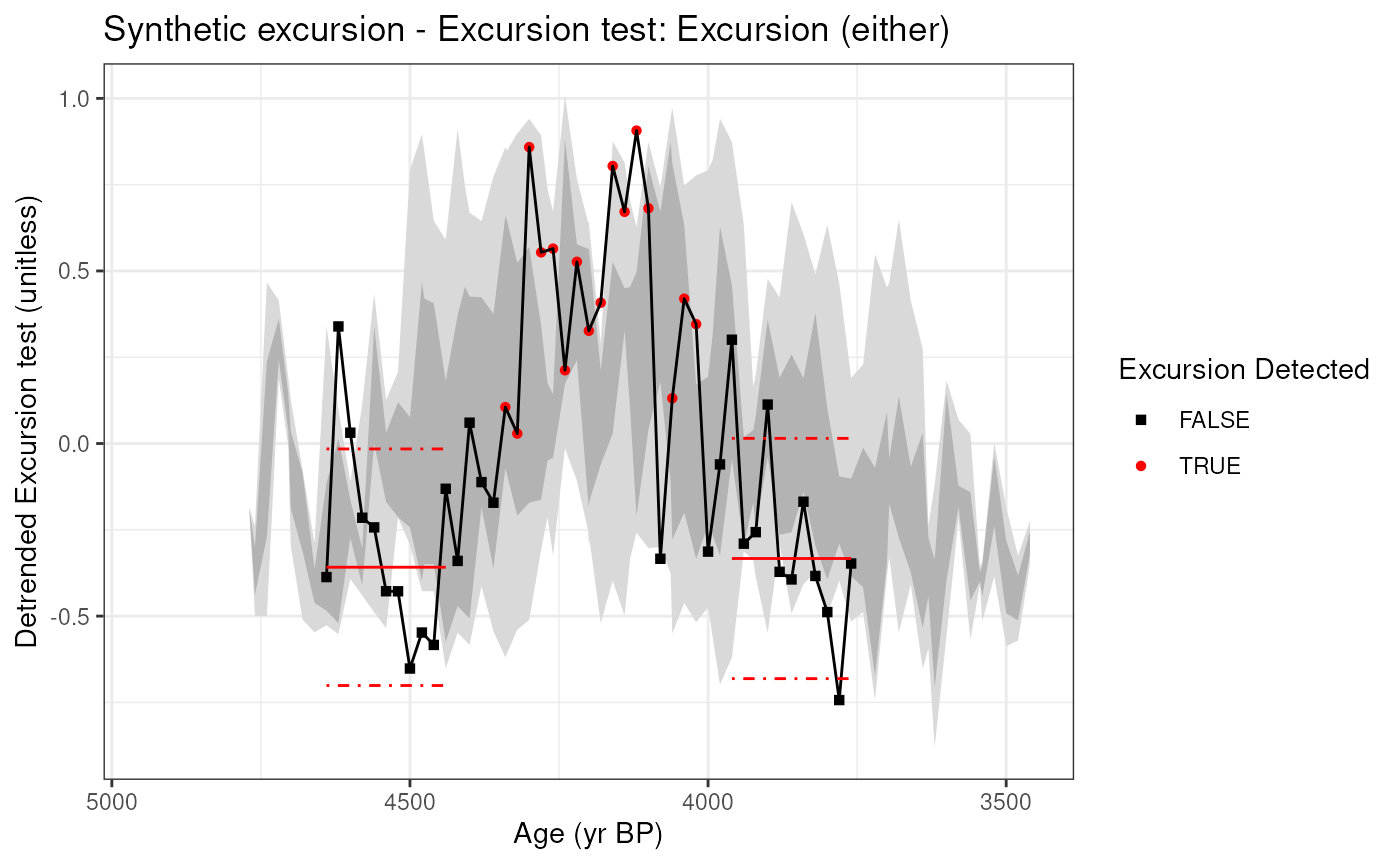
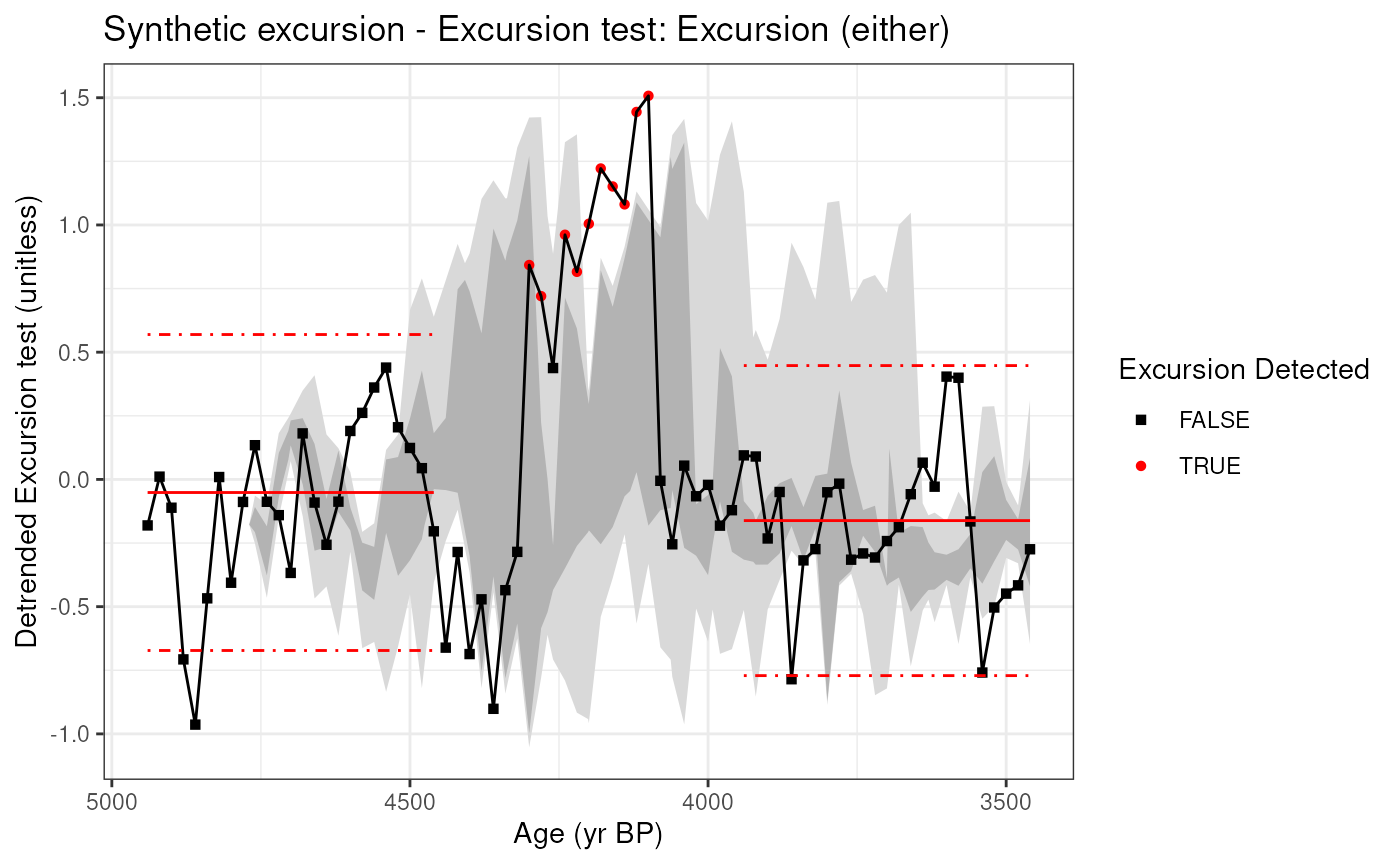
Deploying to gh-pages from @ LinkedEarth/actR@3dfae90deaa3cfb567b2b3aa8c5b34a2dfca7663 🚀

Changed region(s): [[0.0921, 0.1249, 0.7371, 0.8428], [0.0307, 0.4994, 0.0614, 0.5618], [0.0307, 0.6867, 0.0614, 0.7179]]

diff --git a/articles/detectExcursion.html b/articles/detectExcursion.html
@@ -146,7 +146,7 @@ functions will summarize the results.</p>
 <span><span class="co"><span style="font-weight: bold;">#&gt; </span><span style="color: #555555;">sig.num = 2</span></span></span>
 <span><span class="co"><span style="color: #555555;">#&gt; n.consecutive = 2</span></span></span>
 <span><span class="co"><span style="color: #555555;">#&gt; exc.type = either</span></span></span>
-<span><span class="co"><span style="color: #555555;">#&gt; min.vals = 3</span></span></span>
+<span><span class="co"><span style="color: #555555;">#&gt; min.vals = 8</span></span></span>
 <span><span class="co"><span style="color: #555555;">#&gt; na.rm = TRUE</span></span></span>
 <span><span class="co"><span style="color: #555555;">#&gt; </span></span></span></code></pre></div>
 <p>Here we see the results, but it’s easier to see the results,
@@ -196,13 +196,13 @@ null hypothesis simulation 50 times.</p>
 <span><span class="co">#&gt; Selected d18O</span></span>
 <span><span class="co">#&gt; <span style="color: #00BB00;">Testing null hypothesis with 50 simulations, each with 50 ensemble members. </span></span></span>
 <span><span class="co"><span style="color: #00BB00;">#&gt; </span></span></span>
-<span><span class="co">#&gt; Testing null hypothesis <span style="color: #00BB00;">■■                              </span>   4% |  ETA: 26s</span></span>
-<span><span class="co">#&gt; Testing null hypothesis <span style="color: #00BB00;">■■■■■■■                         </span>  20% |  ETA: 16s</span></span>
-<span><span class="co">#&gt; Testing null hypothesis <span style="color: #00BB00;">■■■■■■■■■■■■                    </span>  38% |  ETA: 12s</span></span>
-<span><span class="co">#&gt; Testing null hypothesis <span style="color: #00BB00;">■■■■■■■■■■■■■■■■■               </span>  52% |  ETA:  9s</span></span>
-<span><span class="co">#&gt; Testing null hypothesis <span style="color: #00BB00;">■■■■■■■■■■■■■■■■■■■■■           </span>  66% |  ETA:  7s</span></span>
-<span><span class="co">#&gt; Testing null hypothesis <span style="color: #00BB00;">■■■■■■■■■■■■■■■■■■■■■■■■■■      </span>  82% |  ETA:  4s</span></span>
-<span><span class="co">#&gt; Testing null hypothesis <span style="color: #00BB00;">■■■■■■■■■■■■■■■■■■■■■■■■■■■■■■  </span>  98% |  ETA:  0s</span></span></code></pre></div>
+<span><span class="co">#&gt; Testing null hypothesis <span style="color: #00BB00;">■■                              </span>   4% |  ETA: 25s</span></span>
+<span><span class="co">#&gt; Testing null hypothesis <span style="color: #00BB00;">■■■■■■■                         </span>  20% |  ETA: 17s</span></span>
+<span><span class="co">#&gt; Testing null hypothesis <span style="color: #00BB00;">■■■■■■■■■■■■                    </span>  36% |  ETA: 14s</span></span>
+<span><span class="co">#&gt; Testing null hypothesis <span style="color: #00BB00;">■■■■■■■■■■■■■■■■                </span>  50% |  ETA: 10s</span></span>
+<span><span class="co">#&gt; Testing null hypothesis <span style="color: #00BB00;">■■■■■■■■■■■■■■■■■■■■            </span>  64% |  ETA:  7s</span></span>
+<span><span class="co">#&gt; Testing null hypothesis <span style="color: #00BB00;">■■■■■■■■■■■■■■■■■■■■■■■■■       </span>  80% |  ETA:  4s</span></span>
+<span><span class="co">#&gt; Testing null hypothesis <span style="color: #00BB00;">■■■■■■■■■■■■■■■■■■■■■■■■■■■■■■  </span>  96% |  ETA:  1s</span></span></code></pre></div>
 <p>This time, when we summarize the results, we get more interesting
 output, including an empirical p-value, which is the fraction of null
 hypothesis simulations that exceed the positivity rate in the actual
@@ -213,7 +213,7 @@ significant.</p>
 <span><span class="co">#&gt; <span style="font-weight: bold;">NGRIP.NGRIP.2004 - d18O: Excursion test results</span></span></span>
 <span><span class="co"><span style="font-weight: bold;">#&gt; </span><span style="color: #555555;">Searched for </span><span style="color: #555555; font-weight: bold;">negative</span><span style="color: #555555;"> excursions in a </span><span style="color: #555555; font-weight: bold;">200</span><span style="color: #555555;"> year window around </span><span style="color: #555555; font-weight: bold;">8200</span><span style="color: #555555;"> BP, with reference windows of </span><span style="color: #555555; font-weight: bold;">400</span><span style="color: #555555;"> years on either side.</span></span></span>
 <span><span class="co"><span style="color: #555555;">#&gt; </span></span></span>
-<span><span class="co">#&gt; <span style="font-weight: bold;">Overall result: Empirical p-value = </span><span style="color: #BB0000; font-weight: bold;">0.0666666666666667</span></span></span>
+<span><span class="co">#&gt; <span style="font-weight: bold;">Overall result: Empirical p-value = </span><span style="color: #BB0000; font-weight: bold;">0.0600000000000001</span></span></span>
 <span><span class="co"><span style="font-weight: bold;">#&gt; </span>Time uncertainty considered? <span style="color: #BB0000;">FALSE</span></span></span>
 <span><span class="co">#&gt; Paleo uncertainty considered? <span style="color: #00BB00;">TRUE</span></span></span>
 <span><span class="co">#&gt; Error propagation ensemble members = 50</span></span>
@@ -223,7 +223,7 @@ significant.</p>
 <span><span class="co"><span style="font-weight: bold;">#&gt; </span><span style="color: #555555;">sig.num = 2</span></span></span>
 <span><span class="co"><span style="color: #555555;">#&gt; n.consecutive = 2</span></span></span>
 <span><span class="co"><span style="color: #555555;">#&gt; exc.type = negative</span></span></span>
-<span><span class="co"><span style="color: #555555;">#&gt; min.vals = 3</span></span></span>
+<span><span class="co"><span style="color: #555555;">#&gt; min.vals = 8</span></span></span>
 <span><span class="co"><span style="color: #555555;">#&gt; na.rm = TRUE</span></span></span>
 <span><span class="co"><span style="color: #555555;">#&gt; </span></span></span></code></pre></div>
 <p>We also get a bit more information when plotting with uncertainties.
@@ -271,16 +271,15 @@ through our robust null hypothesis testing.</p>
 <span><span class="co">#&gt; Selected d18O</span></span>
 <span><span class="co">#&gt; <span style="color: #00BB00;">Testing null hypothesis with 50 simulations, each with 50 ensemble members. </span></span></span>
 <span><span class="co"><span style="color: #00BB00;">#&gt; </span></span></span>
-<span><span class="co">#&gt; Testing null hypothesis <span style="color: #00BB00;">■■■                             </span>   6% |  ETA: 26s</span></span>
-<span><span class="co">#&gt; Testing null hypothesis <span style="color: #00BB00;">■■■■■■                          </span>  16% |  ETA: 24s</span></span>
-<span><span class="co">#&gt; Testing null hypothesis <span style="color: #00BB00;">■■■■■■■■■                       </span>  26% |  ETA: 22s</span></span>
-<span><span class="co">#&gt; Testing null hypothesis <span style="color: #00BB00;">■■■■■■■■■■■■                    </span>  36% |  ETA: 18s</span></span>
-<span><span class="co">#&gt; Testing null hypothesis <span style="color: #00BB00;">■■■■■■■■■■■■■■■                 </span>  48% |  ETA: 15s</span></span>
-<span><span class="co">#&gt; Testing null hypothesis <span style="color: #00BB00;">■■■■■■■■■■■■■■■■■■              </span>  58% |  ETA: 12s</span></span>
-<span><span class="co">#&gt; Testing null hypothesis <span style="color: #00BB00;">■■■■■■■■■■■■■■■■■■■■■           </span>  68% |  ETA:  9s</span></span>
-<span><span class="co">#&gt; Testing null hypothesis <span style="color: #00BB00;">■■■■■■■■■■■■■■■■■■■■■■■■        </span>  78% |  ETA:  6s</span></span>
-<span><span class="co">#&gt; Testing null hypothesis <span style="color: #00BB00;">■■■■■■■■■■■■■■■■■■■■■■■■■■■     </span>  88% |  ETA:  3s</span></span>
-<span><span class="co">#&gt; Testing null hypothesis <span style="color: #00BB00;">■■■■■■■■■■■■■■■■■■■■■■■■■■■■■■  </span>  98% |  ETA:  1s</span></span></code></pre></div>
+<span><span class="co">#&gt; Testing null hypothesis <span style="color: #00BB00;">■■■■■                           </span>  12% |  ETA: 28s</span></span>
+<span><span class="co">#&gt; Testing null hypothesis <span style="color: #00BB00;">■■■■■■■■                        </span>  22% |  ETA: 24s</span></span>
+<span><span class="co">#&gt; Testing null hypothesis <span style="color: #00BB00;">■■■■■■■■■■■                     </span>  32% |  ETA: 21s</span></span>
+<span><span class="co">#&gt; Testing null hypothesis <span style="color: #00BB00;">■■■■■■■■■■■■■■                  </span>  42% |  ETA: 18s</span></span>
+<span><span class="co">#&gt; Testing null hypothesis <span style="color: #00BB00;">■■■■■■■■■■■■■■■■■               </span>  52% |  ETA: 15s</span></span>
+<span><span class="co">#&gt; Testing null hypothesis <span style="color: #00BB00;">■■■■■■■■■■■■■■■■■■■■            </span>  62% |  ETA: 12s</span></span>
+<span><span class="co">#&gt; Testing null hypothesis <span style="color: #00BB00;">■■■■■■■■■■■■■■■■■■■■■■■         </span>  72% |  ETA:  8s</span></span>
+<span><span class="co">#&gt; Testing null hypothesis <span style="color: #00BB00;">■■■■■■■■■■■■■■■■■■■■■■■■■■      </span>  82% |  ETA:  5s</span></span>
+<span><span class="co">#&gt; Testing null hypothesis <span style="color: #00BB00;">■■■■■■■■■■■■■■■■■■■■■■■■■■■■■   </span>  92% |  ETA:  2s</span></span></code></pre></div>
 <p>Let’s examine the result.</p>
 <div class="sourceCode" id="cb9"><pre class="downlit sourceCode r">
 <code class="sourceCode R"><span></span>
@@ -288,7 +287,7 @@ through our robust null hypothesis testing.</p>
 <span><span class="co">#&gt; <span style="font-weight: bold;">NGRIP.NGRIP.2004 - d18O: Excursion test results</span></span></span>
 <span><span class="co"><span style="font-weight: bold;">#&gt; </span><span style="color: #555555;">Searched for </span><span style="color: #555555; font-weight: bold;">negative</span><span style="color: #555555;"> excursions in a </span><span style="color: #555555; font-weight: bold;">200</span><span style="color: #555555;"> year window around </span><span style="color: #555555; font-weight: bold;">8200</span><span style="color: #555555;"> BP, with reference windows of </span><span style="color: #555555; font-weight: bold;">400</span><span style="color: #555555;"> years on either side.</span></span></span>
 <span><span class="co"><span style="color: #555555;">#&gt; </span></span></span>
-<span><span class="co">#&gt; <span style="font-weight: bold;">Overall result: Empirical p-value = </span><span style="color: #00BB00; font-weight: bold;">0.0217391304347826</span></span></span>
+<span><span class="co">#&gt; <span style="font-weight: bold;">Overall result: Empirical p-value = </span><span style="color: #00BB00; font-weight: bold;">0</span></span></span>
 <span><span class="co"><span style="font-weight: bold;">#&gt; </span>Time uncertainty considered? <span style="color: #00BB00;">TRUE</span></span></span>
 <span><span class="co">#&gt; Paleo uncertainty considered? <span style="color: #00BB00;">TRUE</span></span></span>
 <span><span class="co">#&gt; Error propagation ensemble members = 50</span></span>
@@ -298,7 +297,7 @@ through our robust null hypothesis testing.</p>
 <span><span class="co"><span style="font-weight: bold;">#&gt; </span><span style="color: #555555;">sig.num = 2</span></span></span>
 <span><span class="co"><span style="color: #555555;">#&gt; n.consecutive = 2</span></span></span>
 <span><span class="co"><span style="color: #555555;">#&gt; exc.type = negative</span></span></span>
-<span><span class="co"><span style="color: #555555;">#&gt; min.vals = 3</span></span></span>
+<span><span class="co"><span style="color: #555555;">#&gt; min.vals = 8</span></span></span>
 <span><span class="co"><span style="color: #555555;">#&gt; na.rm = TRUE</span></span></span>
 <span><span class="co"><span style="color: #555555;">#&gt; </span></span></span></code></pre></div>
 <p>And plot the output.</p>

diff --git a/articles/makeExcursion.html b/articles/makeExcursion.html
@@ -133,20 +133,9 @@ hypothesis testing.</p>
 <span>                          simulate.paleo.uncertainty <span class="op">=</span> <span class="cn">FALSE</span><span class="op">)</span></span></code></pre></div>
 <pre><code><span><span class="co">## <span style="color: #00BB00;">Testing null hypothesis with 10 simulations, each with 10 ensemble members. </span></span></span>
 <span><span class="co"><span style="color: #00BB00;">## </span></span></span></code></pre>
-<pre><code><span><span class="co">## Warning in .f(time = .l[[1L]][[i]], vals = .l[[2L]][[i]], event.yr =</span></span>
-<span><span class="co">## .l[[3L]][[i]], : insufficient minimum values</span></span>
-<span></span>
-<span><span class="co">## Warning in .f(time = .l[[1L]][[i]], vals = .l[[2L]][[i]], event.yr =</span></span>
-<span><span class="co">## .l[[3L]][[i]], : insufficient minimum values</span></span>
-<span></span>
-<span><span class="co">## Warning in .f(time = .l[[1L]][[i]], vals = .l[[2L]][[i]], event.yr =</span></span>
-<span><span class="co">## .l[[3L]][[i]], : insufficient minimum values</span></span>
-<span></span>
-<span><span class="co">## Warning in .f(time = .l[[1L]][[i]], vals = .l[[2L]][[i]], event.yr =</span></span>
-<span><span class="co">## .l[[3L]][[i]], : insufficient minimum values</span></span></code></pre>
 <p>Now we can use <code><a href="https://rdrr.io/r/base/print.html" class="external-link">print()</a></code> and plot to check out the
 results</p>
-<div class="sourceCode" id="cb5"><pre class="downlit sourceCode r">
+<div class="sourceCode" id="cb4"><pre class="downlit sourceCode r">
 <code class="sourceCode R"><span><span class="fu"><a href="https://rdrr.io/r/base/print.html" class="external-link">print</a></span><span class="op">(</span><span class="va">detectedExcusion</span><span class="op">)</span></span></code></pre></div>
 <pre><code><span><span class="co">## Warning in .x == .y: longer object length is not a multiple of shorter object</span></span>
 <span><span class="co">## length</span></span>
@@ -214,11 +203,11 @@ results</p>
 <span><span class="co"><span style="font-weight: bold;">## </span><span style="color: #555555;">sig.num = 2.2854998252122</span></span></span>
 <span><span class="co"><span style="color: #555555;">## n.consecutive = 2</span></span></span>
 <span><span class="co"><span style="color: #555555;">## exc.type = either</span></span></span>
-<span><span class="co"><span style="color: #555555;">## min.vals = 3</span></span></span>
+<span><span class="co"><span style="color: #555555;">## min.vals = 8</span></span></span>
 <span><span class="co"><span style="color: #555555;">## na.rm = TRUE</span></span></span>
 <span><span class="co"><span style="color: #555555;">## </span></span></span></code></pre>
 <p>Let’s plot the results</p>
-<div class="sourceCode" id="cb8"><pre class="downlit sourceCode r">
+<div class="sourceCode" id="cb7"><pre class="downlit sourceCode r">
 <code class="sourceCode R"><span><span class="fu"><a href="https://rdrr.io/r/graphics/plot.default.html" class="external-link">plot</a></span><span class="op">(</span><span class="va">detectedExcusion</span><span class="op">)</span></span></code></pre></div>
 <pre><code><span><span class="co">## Warning in .x == .y: longer object length is not a multiple of shorter object</span></span>
 <span><span class="co">## length</span></span>
@@ -282,7 +271,7 @@ results</p>
 excursions. This could be done with age or paleo ensembles included in
 the data, but for our synthetic experiment, we’ll simulate age and paleo
 uncertainty.</p>
-<div class="sourceCode" id="cb10"><pre class="downlit sourceCode r">
+<div class="sourceCode" id="cb9"><pre class="downlit sourceCode r">
 <code class="sourceCode R"><span><span class="va">detectedExcusionEns</span> <span class="op">&lt;-</span> <span class="fu"><a href="../reference/detectExcursion.html">detectExcursion</a></span><span class="op">(</span><span class="va">syntheticExcursion</span>,</span>
 <span>                          event.yr <span class="op">=</span> <span class="fl">4200</span>,</span>
 <span>                          event.window <span class="op">=</span> <span class="fl">400</span>,</span>
@@ -295,33 +284,14 @@ uncertainty.</p>
 <span>                          simulate.paleo.uncertainty <span class="op">=</span> <span class="cn">TRUE</span><span class="op">)</span></span></code></pre></div>
 <pre><code><span><span class="co">## <span style="color: #00BB00;">Testing null hypothesis with 50 simulations, each with 50 ensemble members. </span></span></span>
 <span><span class="co"><span style="color: #00BB00;">## </span></span></span></code></pre>
-<pre><code><span><span class="co">## Testing null hypothesis <span style="color: #00BB00;">■■■■■■                          </span>  16% |  ETA: 19s</span></span></code></pre>
-<pre><code><span><span class="co">## Warning in .f(.x[[i]], .y[[i]], ...): insufficient minimum values</span></span></code></pre>
-<pre><code><span><span class="co">## Testing null hypothesis <span style="color: #00BB00;">■■■■■■■■■■                      </span>  30% |  ETA: 15s</span></span></code></pre>
-<pre><code><span><span class="co">## Warning in .f(.x[[i]], .y[[i]], ...): insufficient minimum values</span></span>
-<span></span>
-<span><span class="co">## Warning in .f(.x[[i]], .y[[i]], ...): insufficient minimum values</span></span>
-<span></span>
-<span><span class="co">## Warning in .f(.x[[i]], .y[[i]], ...): insufficient minimum values</span></span>
-<span></span>
-<span><span class="co">## Warning in .f(.x[[i]], .y[[i]], ...): insufficient minimum values</span></span></code></pre>
-<pre><code><span><span class="co">## Testing null hypothesis <span style="color: #00BB00;">■■■■■■■■■■■■■■                  </span>  44% |  ETA: 12s</span></span></code></pre>
-<pre><code><span><span class="co">## Warning in .f(.x[[i]], .y[[i]], ...): insufficient minimum values</span></span></code></pre>
-<pre><code><span><span class="co">## Testing null hypothesis <span style="color: #00BB00;">■■■■■■■■■■■■■■■■■■              </span>  58% |  ETA:  9s</span></span></code></pre>
-<pre><code><span><span class="co">## Warning in .f(.x[[i]], .y[[i]], ...): insufficient minimum values</span></span>
-<span></span>
-<span><span class="co">## Warning in .f(.x[[i]], .y[[i]], ...): insufficient minimum values</span></span>
-<span></span>
-<span><span class="co">## Warning in .f(.x[[i]], .y[[i]], ...): insufficient minimum values</span></span></code></pre>
-<pre><code><span><span class="co">## Testing null hypothesis <span style="color: #00BB00;">■■■■■■■■■■■■■■■■■■■■■■■         </span>  74% |  ETA:  5s</span></span></code></pre>
-<pre><code><span><span class="co">## Testing null hypothesis <span style="color: #00BB00;">■■■■■■■■■■■■■■■■■■■■■■■■■■■     </span>  88% |  ETA:  2s</span></span></code></pre>
-<pre><code><span><span class="co">## Warning in .f(.x[[i]], .y[[i]], ...): insufficient minimum values</span></span>
-<span></span>
-<span><span class="co">## Warning in .f(.x[[i]], .y[[i]], ...): insufficient minimum values</span></span>
-<span></span>
-<span><span class="co">## Warning in .f(.x[[i]], .y[[i]], ...): insufficient minimum values</span></span></code></pre>
+<pre><code><span><span class="co">## Testing null hypothesis <span style="color: #00BB00;">■■■■■■                          </span>  16% |  ETA: 18s</span></span></code></pre>
+<pre><code><span><span class="co">## Testing null hypothesis <span style="color: #00BB00;">■■■■■■■■■■■                     </span>  32% |  ETA: 14s</span></span></code></pre>
+<pre><code><span><span class="co">## Testing null hypothesis <span style="color: #00BB00;">■■■■■■■■■■■■■■■                 </span>  46% |  ETA: 11s</span></span></code></pre>
+<pre><code><span><span class="co">## Testing null hypothesis <span style="color: #00BB00;">■■■■■■■■■■■■■■■■■■■■            </span>  62% |  ETA:  8s</span></span></code></pre>
+<pre><code><span><span class="co">## Testing null hypothesis <span style="color: #00BB00;">■■■■■■■■■■■■■■■■■■■■■■■■        </span>  78% |  ETA:  4s</span></span></code></pre>
+<pre><code><span><span class="co">## Testing null hypothesis <span style="color: #00BB00;">■■■■■■■■■■■■■■■■■■■■■■■■■■■■■   </span>  94% |  ETA:  1s</span></span></code></pre>
 <p>Now let’s look at the results</p>
-<div class="sourceCode" id="cb23"><pre class="downlit sourceCode r">
+<div class="sourceCode" id="cb17"><pre class="downlit sourceCode r">
 <code class="sourceCode R"><span><span class="fu"><a href="https://rdrr.io/r/base/print.html" class="external-link">print</a></span><span class="op">(</span><span class="va">detectedExcusionEns</span><span class="op">)</span></span></code></pre></div>
 <pre><code><span><span class="co">## <span style="font-weight: bold;">Synthetic excursion - Excursion test: Excursion test results</span></span></span>
 <span><span class="co"><span style="font-weight: bold;">## </span><span style="color: #555555;">Searched for </span><span style="color: #555555; font-weight: bold;">positive</span><span style="color: #555555;"> excursions in a </span><span style="color: #555555; font-weight: bold;">400</span><span style="color: #555555;"> year window around </span><span style="color: #555555; font-weight: bold;">4200</span><span style="color: #555555;"> yr BP, with reference windows of </span><span style="color: #555555; font-weight: bold;">400</span><span style="color: #555555;"> years on either side.</span></span></span>
@@ -336,11 +306,11 @@ uncertainty.</p>
 <span><span class="co"><span style="font-weight: bold;">## </span><span style="color: #555555;">sig.num = 2</span></span></span>
 <span><span class="co"><span style="color: #555555;">## n.consecutive = 2</span></span></span>
 <span><span class="co"><span style="color: #555555;">## exc.type = positive</span></span></span>
-<span><span class="co"><span style="color: #555555;">## min.vals = 3</span></span></span>
+<span><span class="co"><span style="color: #555555;">## min.vals = 8</span></span></span>
 <span><span class="co"><span style="color: #555555;">## na.rm = TRUE</span></span></span>
 <span><span class="co"><span style="color: #555555;">## </span></span></span></code></pre>
 <p>and make a plot</p>
-<div class="sourceCode" id="cb25"><pre class="downlit sourceCode r">
+<div class="sourceCode" id="cb19"><pre class="downlit sourceCode r">
 <code class="sourceCode R"><span><span class="fu"><a href="https://rdrr.io/r/graphics/plot.default.html" class="external-link">plot</a></span><span class="op">(</span><span class="va">detectedExcusionEns</span><span class="op">)</span></span></code></pre></div>
 <p><img src="makeExcursion_files/figure-html/unnamed-chunk-7-1.png" width="700"></p>
 </div>

diff --git a/articles/detectShift.html b/articles/detectShift.html
@@ -121,11 +121,11 @@ null.hypothesis.n]. * specifies a minimum segment length of 3000y</p>
 <span><span class="co">#&gt; <span style="color: #BB00BB;">timeUnits is at least partially absent in the input data</span></span></span>
 <span><span class="co"><span style="color: #BB00BB;">#&gt; </span><span style="color: #00BB00;">Testing null hypothesis with 50 simulations, each with 50 ensemble members. </span></span></span>
 <span><span class="co"><span style="color: #00BB00;">#&gt; </span></span></span>
-<span><span class="co">#&gt; Testing null hypothesis <span style="color: #00BB00;">■■                              </span>   4% |  ETA: 24s</span></span>
-<span><span class="co">#&gt; Testing null hypothesis <span style="color: #00BB00;">■■■■■■                          </span>  16% |  ETA: 22s</span></span>
-<span><span class="co">#&gt; Testing null hypothesis <span style="color: #00BB00;">■■■■■■■■■                       </span>  28% |  ETA: 18s</span></span>
-<span><span class="co">#&gt; Testing null hypothesis <span style="color: #00BB00;">■■■■■■■■■■■■■                   </span>  40% |  ETA: 15s</span></span>
-<span><span class="co">#&gt; Testing null hypothesis <span style="color: #00BB00;">■■■■■■■■■■■■■■■■■               </span>  52% |  ETA: 12s</span></span>
+<span><span class="co">#&gt; Testing null hypothesis <span style="color: #00BB00;">■■■                             </span>   6% |  ETA: 24s</span></span>
+<span><span class="co">#&gt; Testing null hypothesis <span style="color: #00BB00;">■■■■■■                          </span>  18% |  ETA: 21s</span></span>
+<span><span class="co">#&gt; Testing null hypothesis <span style="color: #00BB00;">■■■■■■■■■■                      </span>  30% |  ETA: 18s</span></span>
+<span><span class="co">#&gt; Testing null hypothesis <span style="color: #00BB00;">■■■■■■■■■■■■■■                  </span>  42% |  ETA: 15s</span></span>
+<span><span class="co">#&gt; Testing null hypothesis <span style="color: #00BB00;">■■■■■■■■■■■■■■■■■               </span>  54% |  ETA: 12s</span></span>
 <span><span class="co">#&gt; Testing null hypothesis <span style="color: #00BB00;">■■■■■■■■■■■■■■■■■■■■            </span>  64% |  ETA:  9s</span></span>
 <span><span class="co">#&gt; Testing null hypothesis <span style="color: #00BB00;">■■■■■■■■■■■■■■■■■■■■■■■■        </span>  76% |  ETA:  6s</span></span>
 <span><span class="co">#&gt; Testing null hypothesis <span style="color: #00BB00;">■■■■■■■■■■■■■■■■■■■■■■■■■■■     </span>  88% |  ETA:  3s</span></span></code></pre></div>
@@ -179,9 +179,9 @@ attempt to detect changes in the mean.</p>
 <span><span class="co">#&gt; Selected trsgi</span></span>
 <span><span class="co">#&gt; <span style="color: #00BB00;">Testing null hypothesis with 50 simulations, each with 50 ensemble members. </span></span></span>
 <span><span class="co"><span style="color: #00BB00;">#&gt; </span></span></span>
-<span><span class="co">#&gt; Testing null hypothesis <span style="color: #00BB00;">■■■■■■■■■                       </span>  28% |  ETA:  9s</span></span>
-<span><span class="co">#&gt; Testing null hypothesis <span style="color: #00BB00;">■■■■■■■■■■■■■■■■■               </span>  52% |  ETA:  6s</span></span>
-<span><span class="co">#&gt; Testing null hypothesis <span style="color: #00BB00;">■■■■■■■■■■■■■■■■■■■■■■■■        </span>  76% |  ETA:  3s</span></span></code></pre></div>
+<span><span class="co">#&gt; Testing null hypothesis <span style="color: #00BB00;">■■■■■■■■■■                      </span>  30% |  ETA:  9s</span></span>
+<span><span class="co">#&gt; Testing null hypothesis <span style="color: #00BB00;">■■■■■■■■■■■■■■■■■               </span>  54% |  ETA:  6s</span></span>
+<span><span class="co">#&gt; Testing null hypothesis <span style="color: #00BB00;">■■■■■■■■■■■■■■■■■■■■■■■■        </span>  78% |  ETA:  3s</span></span></code></pre></div>
 <div class="sourceCode" id="cb6"><pre class="downlit sourceCode r">
 <code class="sourceCode R"><span><span class="va">gbmPlot</span> <span class="op">&lt;-</span> <span class="fu"><a href="https://rdrr.io/r/graphics/plot.default.html" class="external-link">plot</a></span><span class="op">(</span><span class="va">msGb</span><span class="op">)</span></span></code></pre></div>
 <p><img src="detectShift_files/figure-html/unnamed-chunk-6-1.png" width="700"></p>
@@ -207,8 +207,8 @@ package).</p>
 <span><span class="co">#&gt; <span style="color: #00BB00;">Testing null hypothesis with 50 simulations, each with 50 ensemble members. </span></span></span>
 <span><span class="co"><span style="color: #00BB00;">#&gt; </span></span></span>
 <span><span class="co">#&gt; Testing null hypothesis <span style="color: #00BB00;">■■■■■■■■■                       </span>  28% |  ETA:  9s</span></span>
-<span><span class="co">#&gt; Testing null hypothesis <span style="color: #00BB00;">■■■■■■■■■■■■■■■■■               </span>  52% |  ETA:  6s</span></span>
-<span><span class="co">#&gt; Testing null hypothesis <span style="color: #00BB00;">■■■■■■■■■■■■■■■■■■■■■■■■        </span>  76% |  ETA:  3s</span></span>
+<span><span class="co">#&gt; Testing null hypothesis <span style="color: #00BB00;">■■■■■■■■■■■■■■■■                </span>  50% |  ETA:  6s</span></span>
+<span><span class="co">#&gt; Testing null hypothesis <span style="color: #00BB00;">■■■■■■■■■■■■■■■■■■■■■■■         </span>  74% |  ETA:  3s</span></span>
 <span><span class="co">#&gt; Testing null hypothesis <span style="color: #00BB00;">■■■■■■■■■■■■■■■■■■■■■■■■■■■■■■  </span>  98% |  ETA:  0s</span></span></code></pre></div>
 <p>Note also that actR offers 3 different methods to generate
 surrogates, as detailed in the documentation. The default is

diff --git a/articles/makeShift.html b/articles/makeShift.html
@@ -124,9 +124,9 @@ time 20</p>
 <span>                     n.ens <span class="op">=</span> <span class="fl">50</span><span class="op">)</span></span>
 <span><span class="co">#&gt; <span style="color: #00BB00;">Testing null hypothesis with 50 simulations, each with 50 ensemble members. </span></span></span>
 <span><span class="co"><span style="color: #00BB00;">#&gt; </span></span></span>
-<span><span class="co">#&gt; Testing null hypothesis <span style="color: #00BB00;">■■■■■■                          </span>  18% |  ETA:  8s</span></span>
+<span><span class="co">#&gt; Testing null hypothesis <span style="color: #00BB00;">■■■■■■■                         </span>  20% |  ETA:  8s</span></span>
 <span><span class="co">#&gt; Testing null hypothesis <span style="color: #00BB00;">■■■■■■■■■■■■■■■                 </span>  48% |  ETA:  5s</span></span>
-<span><span class="co">#&gt; Testing null hypothesis <span style="color: #00BB00;">■■■■■■■■■■■■■■■■■■■■■■■■■       </span>  80% |  ETA:  2s</span></span></code></pre></div>
+<span><span class="co">#&gt; Testing null hypothesis <span style="color: #00BB00;">■■■■■■■■■■■■■■■■■■■■■■■■■■      </span>  82% |  ETA:  2s</span></span></code></pre></div>
 <p>###Plot shift</p>
 <p>Let’s plot the results</p>
 <div class="sourceCode" id="cb4"><pre class="downlit sourceCode r">

diff --git a/reference/detectExcursionCore.html b/reference/detectExcursionCore.html
@@ -75,7 +75,8 @@
 <span>  sig.num <span class="op">=</span> <span class="fl">2</span>,</span>
 <span>  n.consecutive <span class="op">=</span> <span class="fl">2</span>,</span>
 <span>  exc.type <span class="op">=</span> <span class="st">"either"</span>,</span>
-<span>  min.vals <span class="op">=</span> <span class="fl">3</span>,</span>
+<span>  min.vals <span class="op">=</span> <span class="fl">8</span>,</span>
+<span>  adjust.n.for.autocorrelation <span class="op">=</span> <span class="cn">FALSE</span>,</span>
 <span>  na.rm <span class="op">=</span> <span class="cn">TRUE</span></span>
 <span><span class="op">)</span></span></code></pre></div>
     </div>
@@ -116,6 +117,10 @@
 
 <dt>min.vals</dt>
 <dd><p>Minimum effective sample size (adjusted by autocorrelation) required in reference and event windows (default = 4)</p></dd>
+
+
+<dt>adjust.n.for.autocorrelation</dt>
+<dd><p>Adjust the min.vals check to account for autocorrelation?</p></dd>
 
 
 <dt>na.rm</dt>
